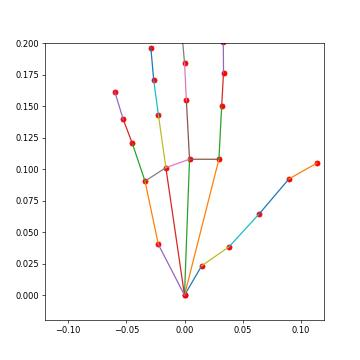
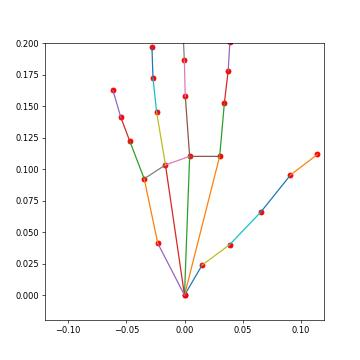
Reduced the amount of filters due to jerkiness

diff --git a/src/beavr/components/operators/xarm7_right.py b/src/beavr/components/operators/xarm7_right.py
@@ -412,6 +412,16 @@ class XArm7RightOperator(Operator):
             # Reposition initial values for the robot and hand, then get moving hand frame
             moving_hand_frame = self._reset_teleop()
             self.is_first_frame = False
+            
+            # Initialize CompStateFilter with the first frame
+            if self.use_filter and moving_hand_frame is not None:
+                cart = self._homo2cart(self.robot_moving_H)
+                self.comp_filter = CompStateFilter(
+                    init_state=cart,
+                    pos_ratio=0.7,  # Slightly stronger position filtering
+                    ori_ratio=0.85,  # Strong orientation filtering
+                    adaptive=True
+                )
         else:
             moving_hand_frame = self._get_hand_frame()
         
@@ -458,31 +468,14 @@ class XArm7RightOperator(Operator):
         H_RT_RH[:3, :3] = self.project_to_rotation_matrix(H_RT_RH[:3, :3])
         self.robot_moving_H = copy(H_RT_RH)
 
-        # Get cart pose and apply filters
+        # Get cart pose and apply filter
         cart = self._homo2cart(H_RT_RH)
-
-        # Position filtering (simple exponential filter)
-        if hasattr(self, 'filtered_position'):
-            self.filtered_position = self.filtered_position * 0.6 + cart[:3] * 0.4
-        else:
-            self.filtered_position = cart[:3]
         
-        # Orientation filtering (with velocity-based quaternion filter)
-        if self.quat_filter is None:
-            self.quat_filter = QuaternionFilter(cart[3:7], smoothing=0.85)
-            # Initialize with the first quaternion
-            filtered_quat = cart[3:7]
-        else:
-            # Update with new quaternion
-            filtered_quat = self.quat_filter.update(cart[3:7])
+        # Apply CompStateFilter (handles both position and orientation)
+        if self.use_filter and self.comp_filter is not None:
+            cart = self.comp_filter(cart)
         
-        # Store the filtered quaternion for debugging/logging
-        self.filtered_quaternion = filtered_quat.copy()
-
-        # Combine filtered position and orientation
-        cart = np.concatenate([self.filtered_position, filtered_quat])
-
-        # Convert to euler angles and publish
+        # Get euler angles
         position = cart[0:3]
         orientation = cart[3:7]
         roll, pitch, yaw = self.quat_to_euler_rad(orientation[0], orientation[1], orientation[2], orientation[3])
